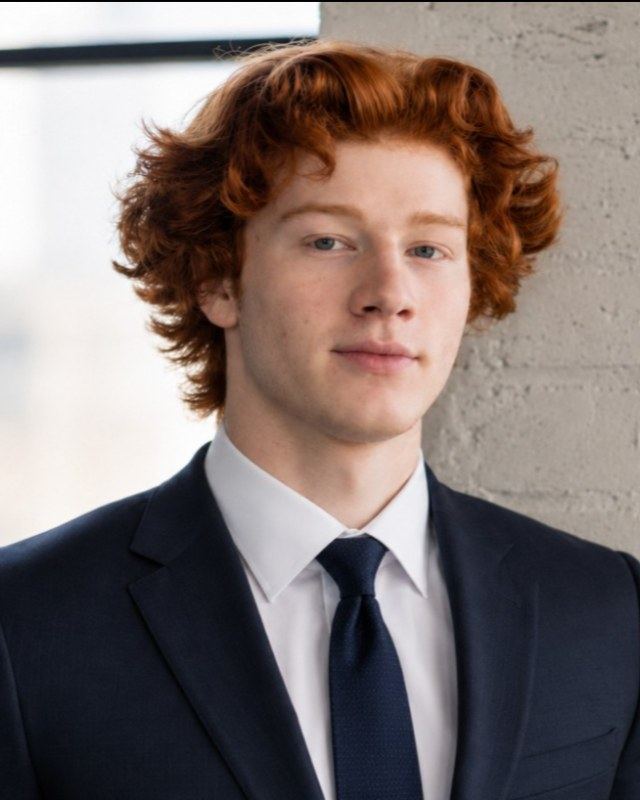
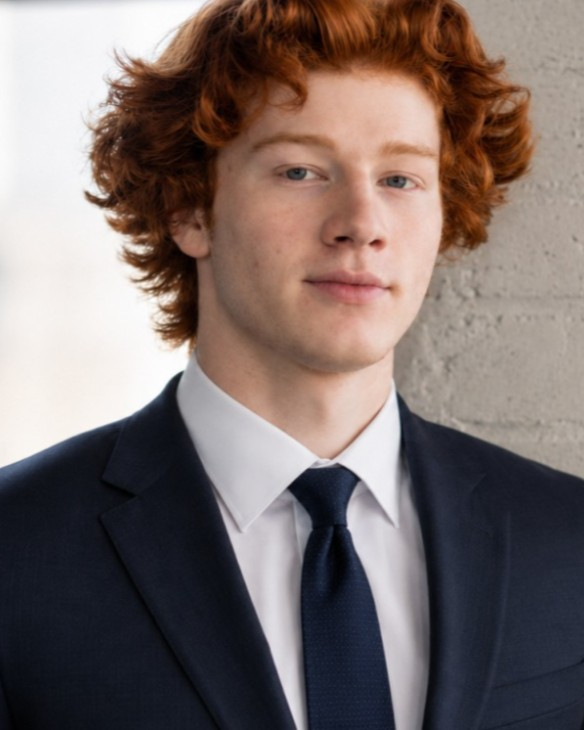
About: recrop headshot, full-width portrait on mobile

diff --git a/styles.css b/styles.css
@@ -333,7 +333,7 @@ footer .base .wrap{display:flex;justify-content:space-between;padding-top:18px;p
 .about-hero .phero-inner{padding:0}
 .portrait{margin:0;position:relative;border-radius:22px;padding:14px;background:linear-gradient(160deg,#E9E4D8,#F7F5EF 55%,#E3DED1)}
 .portrait::before{content:"";position:absolute;inset:0;border-radius:22px;background-image:radial-gradient(var(--line-2) 1px,transparent 1px);background-size:20px 20px;opacity:.6;pointer-events:none}
-.portrait img{position:relative;width:100%;height:auto;aspect-ratio:4/5;object-fit:cover;object-position:50% 20%;border-radius:14px;border:1px solid var(--line);box-shadow:0 30px 60px -30px rgba(21,20,15,.4);display:block}
+.portrait img{position:relative;width:100%;height:auto;aspect-ratio:4/5;object-fit:cover;object-position:50% 35%;border-radius:14px;border:1px solid var(--line);box-shadow:0 30px 60px -30px rgba(21,20,15,.4);display:block}
 .portrait figcaption{position:relative;display:flex;justify-content:space-between;gap:10px;flex-wrap:wrap;padding:12px 6px 0;font-family:var(--mono);font-size:10.5px;letter-spacing:.14em;text-transform:uppercase;color:var(--muted)}
 .portrait figcaption span:first-child{color:var(--ink)}
 .about-strip{margin-top:0}
@@ -342,7 +342,7 @@ footer .base .wrap{display:flex;justify-content:space-between;padding-top:18px;p
 .socials a:hover{border-bottom-color:var(--ink)}
 footer .col a.brand{color:var(--ink);font-size:24px;margin-bottom:0}
 .plist.two{grid-template-columns:1fr 1fr;max-width:960px}
-@media(max-width:900px){.about-grid{grid-template-columns:1fr}.portrait{width:min(240px,70vw);padding:10px}.plist.two{grid-template-columns:1fr}}
+@media(max-width:900px){.about-grid{grid-template-columns:1fr}.portrait{width:100%;padding:12px}.plist.two{grid-template-columns:1fr}}
 
 /* proof + guarantee */
 .proof{display:grid;grid-template-columns:1.1fr 1fr;gap:0;border:1px solid var(--line);border-radius:22px;overflow:hidden;background:var(--card)}

diff --git a/about.html b/about.html
@@ -41,7 +41,7 @@
         </div>
       </div>
       <figure class="portrait rv d2">
-        <img src="assets/jack-white.jpg" alt="Jack White, founder of RoleMade" width="640" height="800">
+        <img src="assets/jack-white.jpg?v=2" alt="Jack White, founder of RoleMade" width="584" height="730">
         <figcaption><span>Jack White</span><span>Founder · Chicago</span></figcaption>
       </figure>
     </div>
